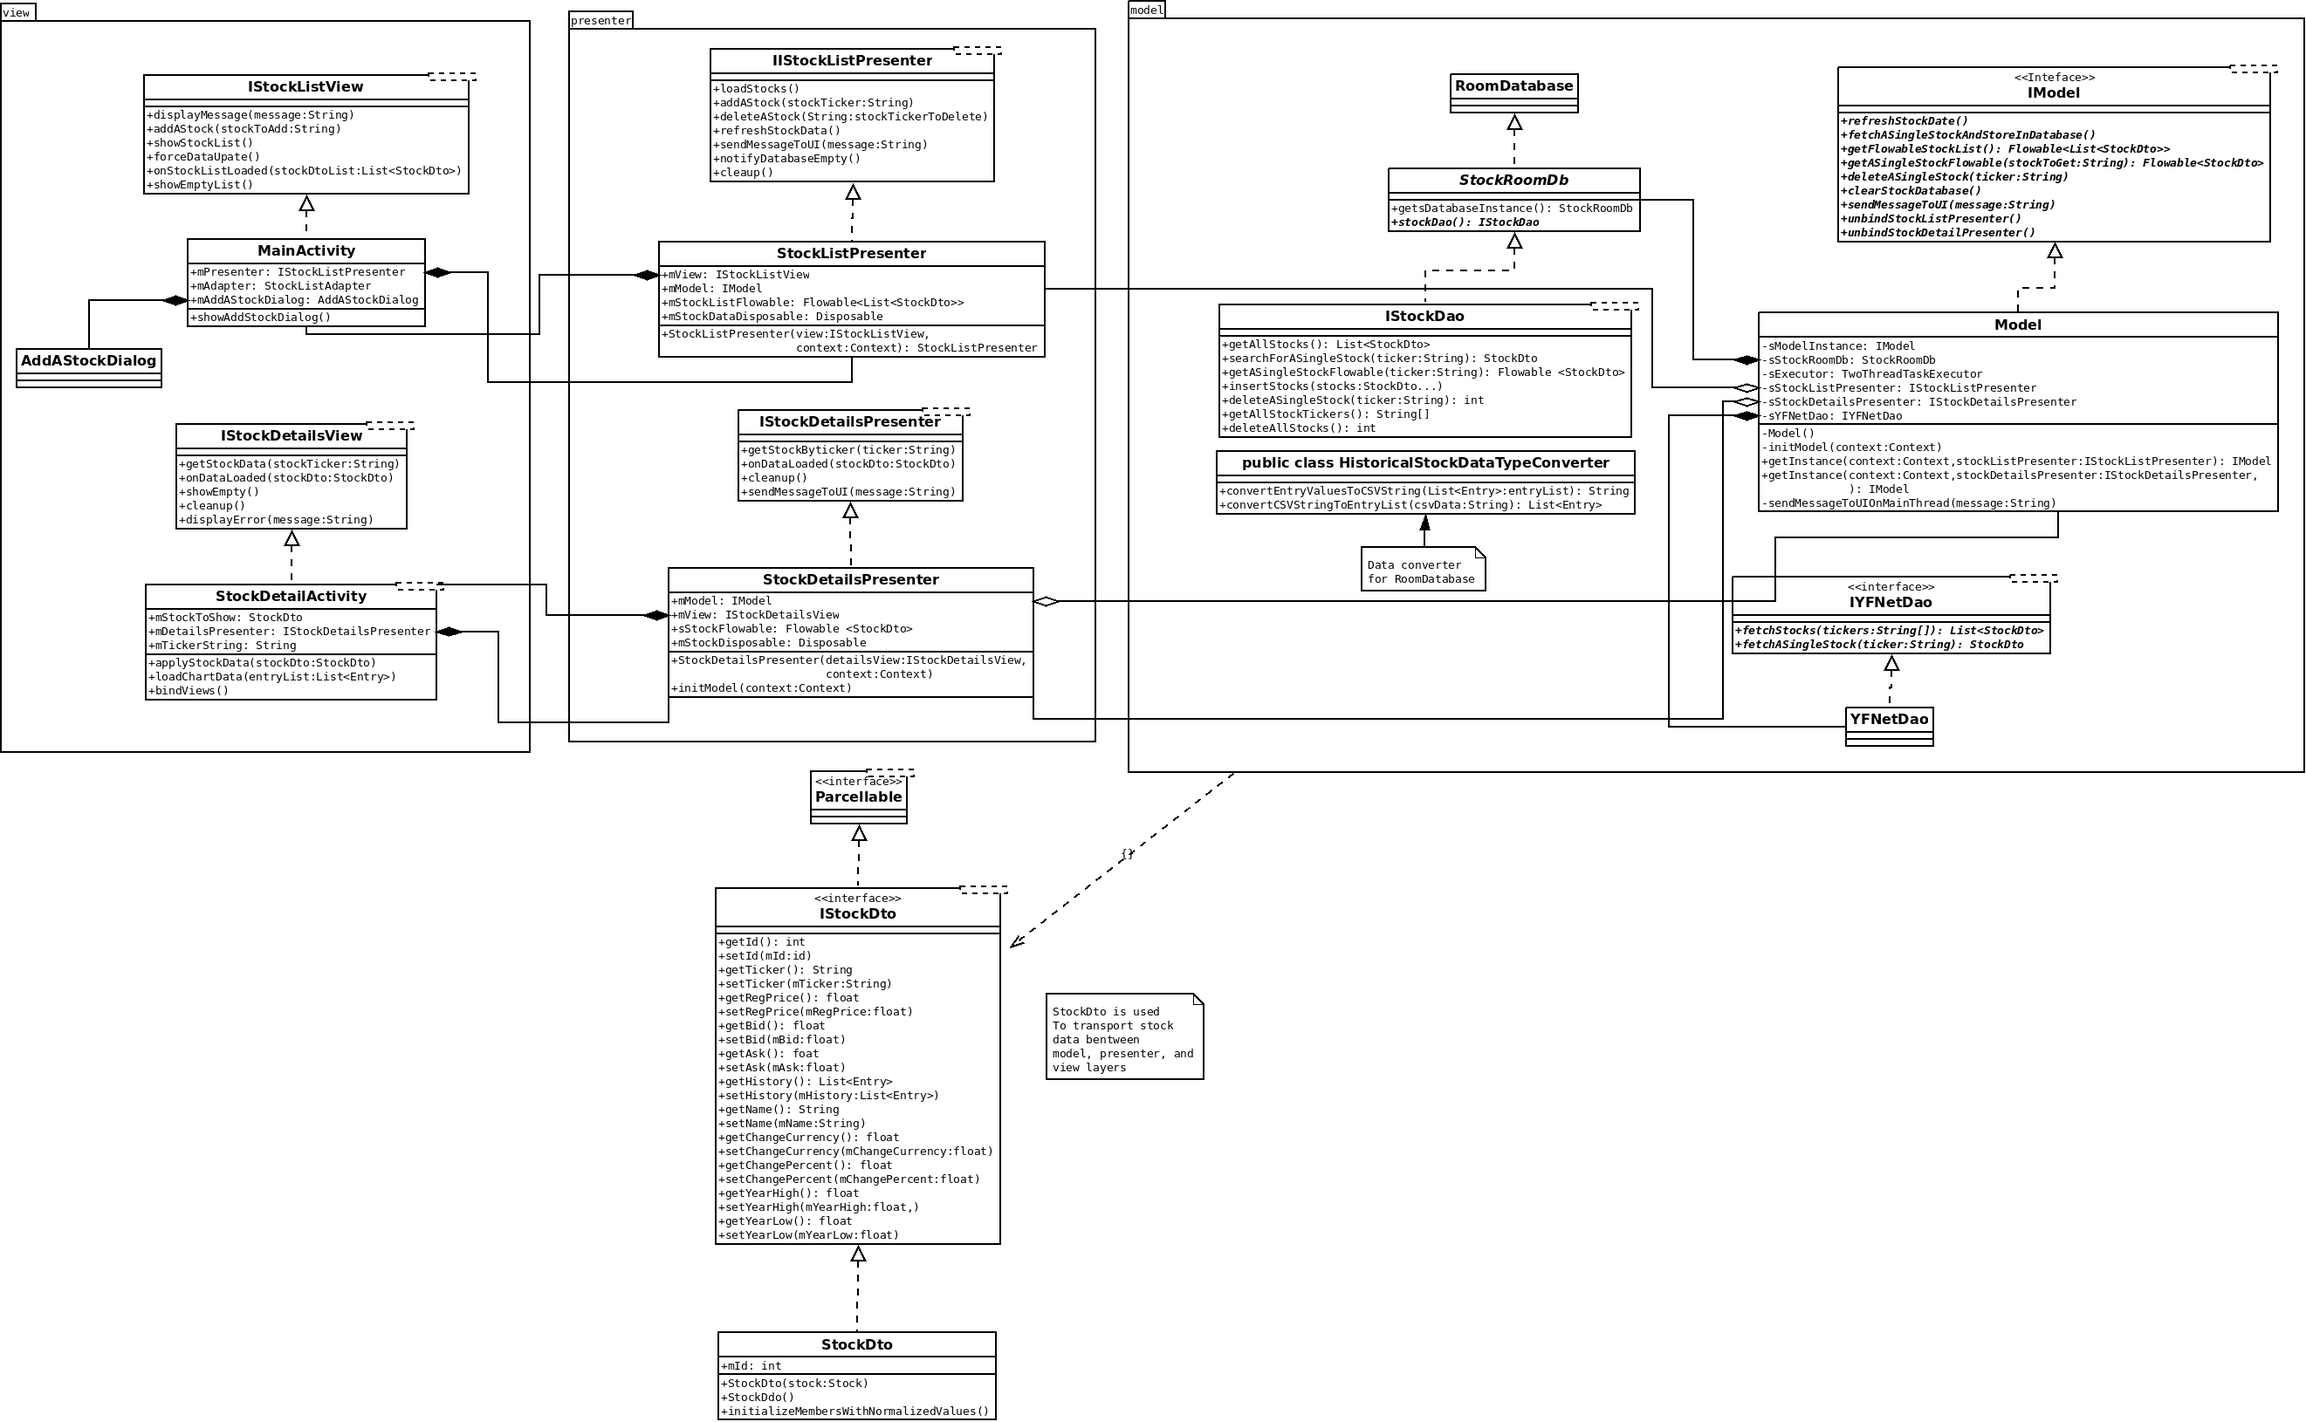
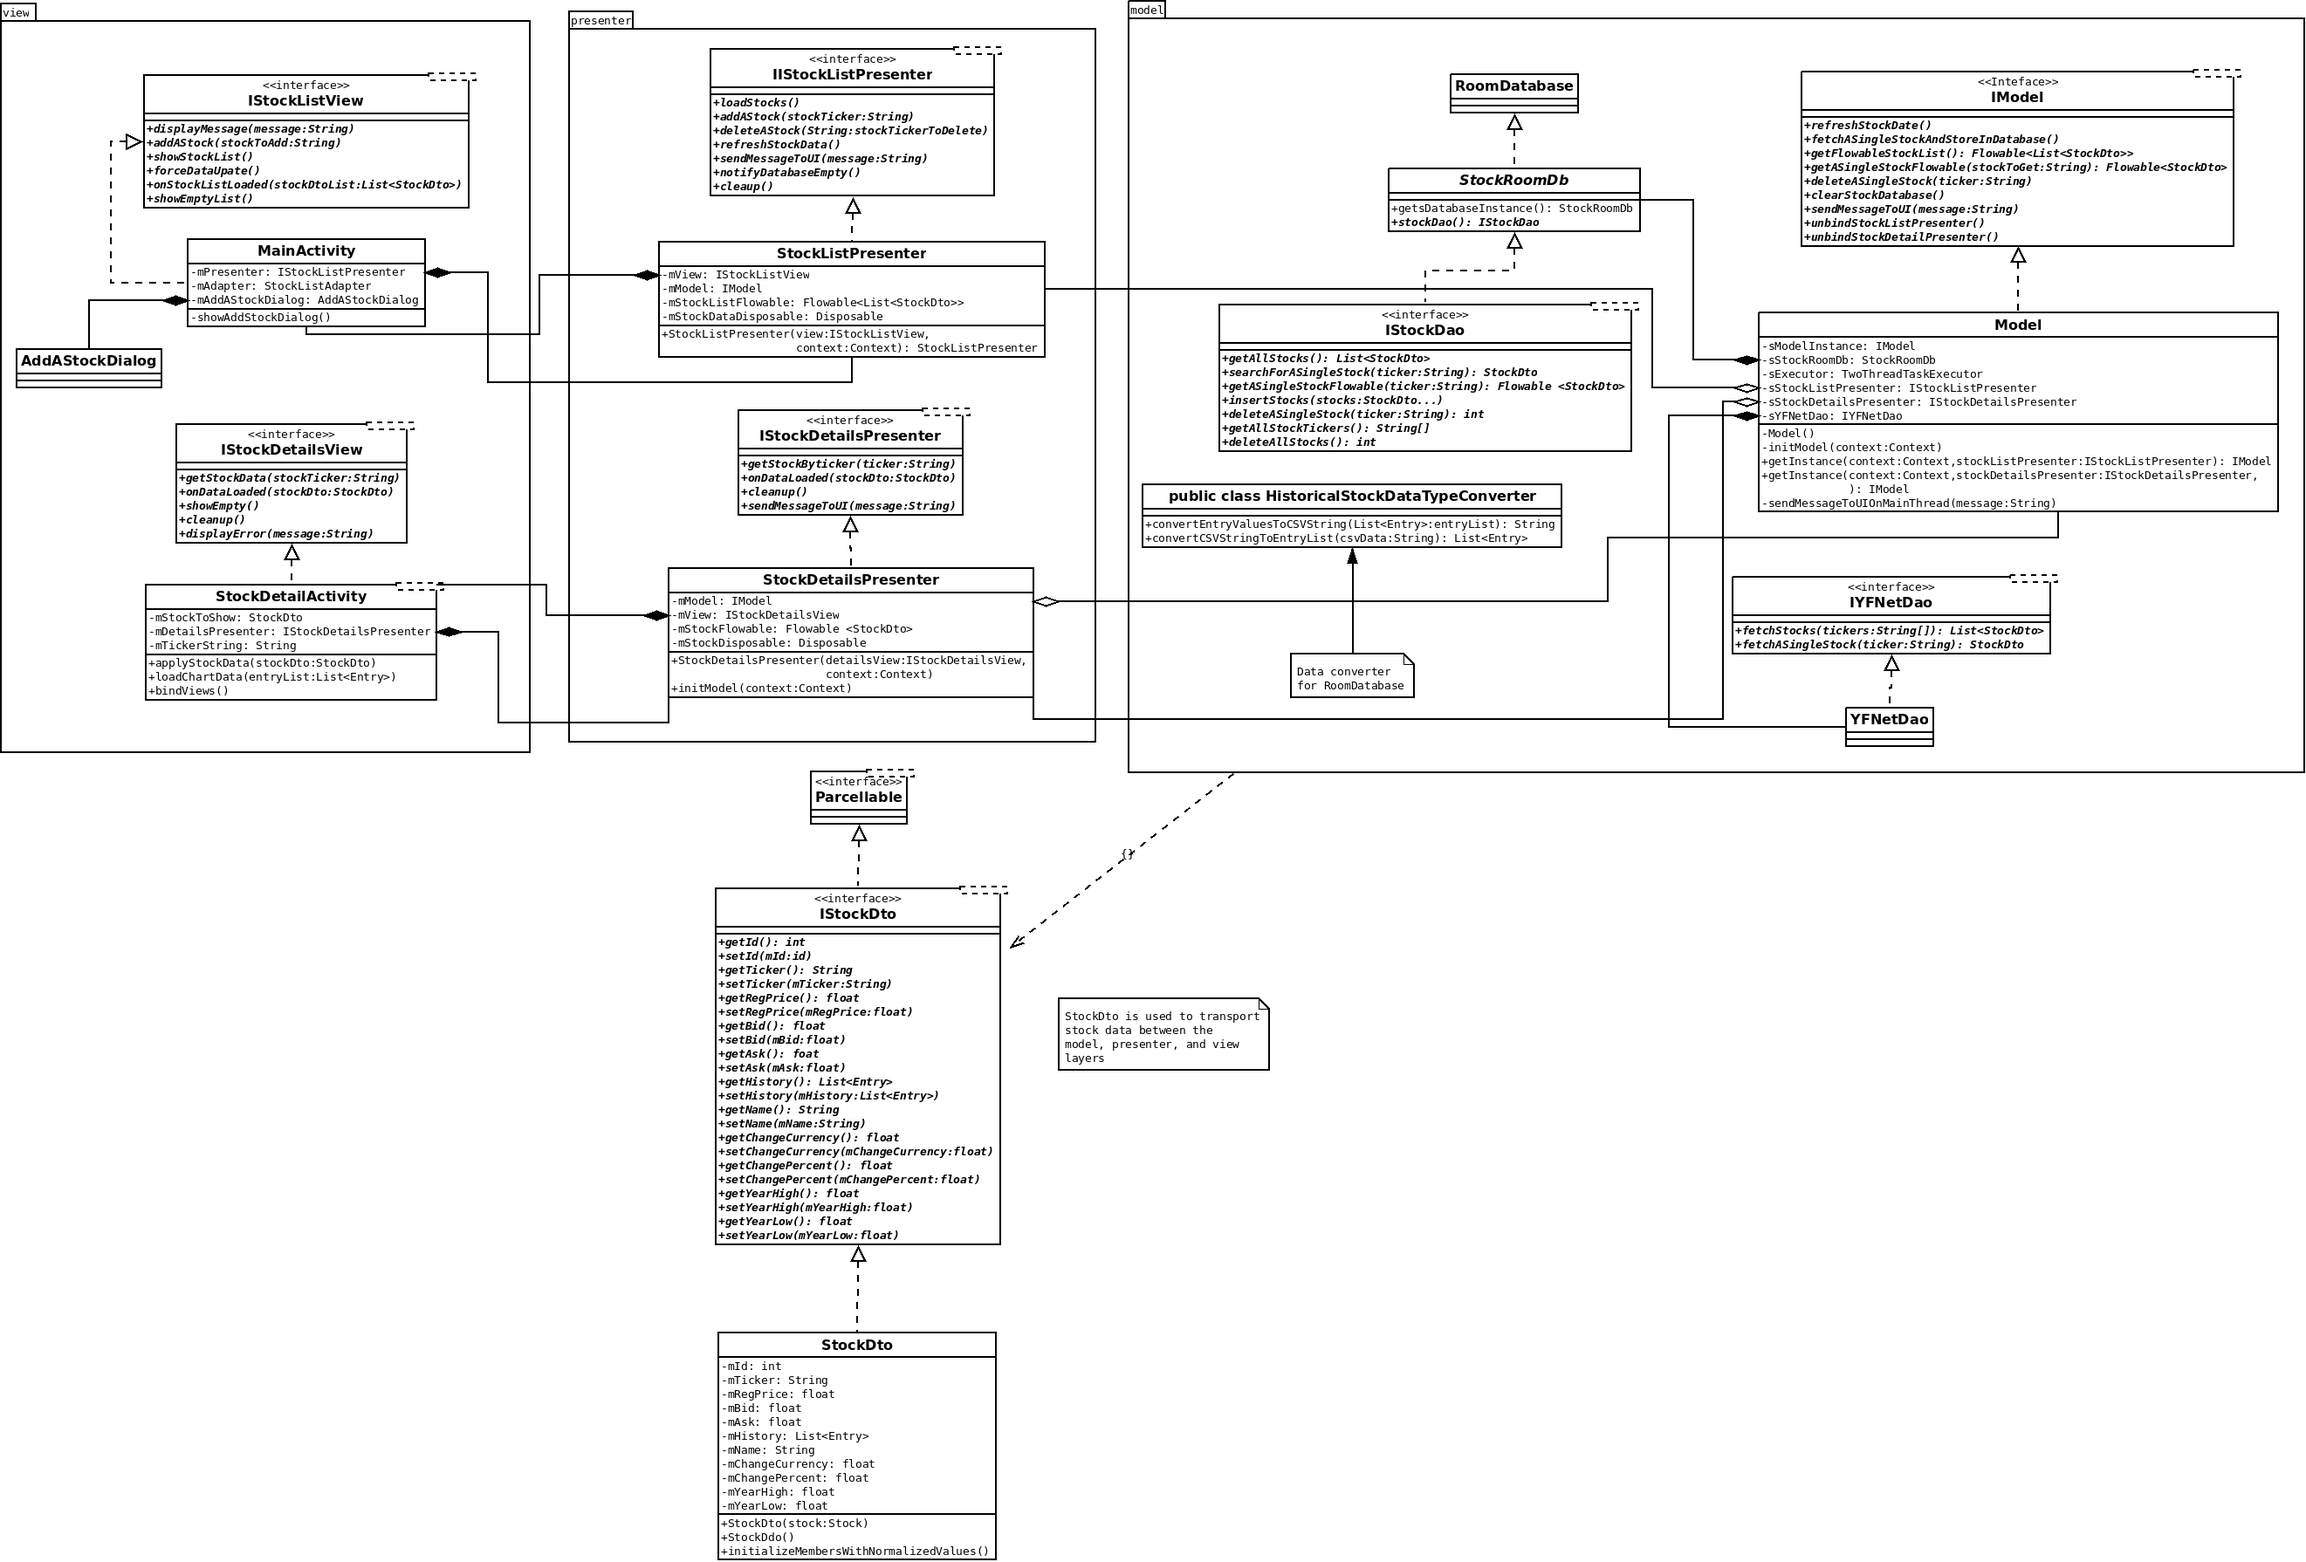
fix:		fix uml diagram
chore:		delete unneeded ModelInjector.java
		rename methods for clarity

diff --git a/app/src/main/java/com/example/devbox/stockhawkrewrite/presenter/StockDetailsPresenter.java b/app/src/main/java/com/example/devbox/stockhawkrewrite/presenter/StockDetailsPresenter.java
@@ -55,9 +55,9 @@ public class StockDetailsPresenter implements IStockDetailsPresenter {
 
 
     @Override
-    public void notifyError(String errorMassage) {
+    public void sendMessageToUI(String message) {
         if(mView!=null) {
-            mView.displayError(errorMassage);
+            mView.displayError(message);
         }
     }
 

diff --git a/app/src/main/java/com/example/devbox/stockhawkrewrite/model/IModel.java b/app/src/main/java/com/example/devbox/stockhawkrewrite/model/IModel.java
@@ -38,6 +38,7 @@ public interface IModel {
     void unbindStockDetailPresenter();
 
 
+    //TODO delete if not needed
     interface DataLoaderCallbacks{
         void onDataNotAvailable();
         void onDataError(String errorMessage);

diff --git a/app/src/main/java/com/example/devbox/stockhawkrewrite/presenter/IStockDetailsPresenter.java b/app/src/main/java/com/example/devbox/stockhawkrewrite/presenter/IStockDetailsPresenter.java
@@ -9,7 +9,7 @@ public interface IStockDetailsPresenter {
 
     void onDataLoaded(StockDto stockDto);
 
-    void notifyError(String errorMassage);
+    void sendMessageToUI(String message);
 
     void cleanup();
 
